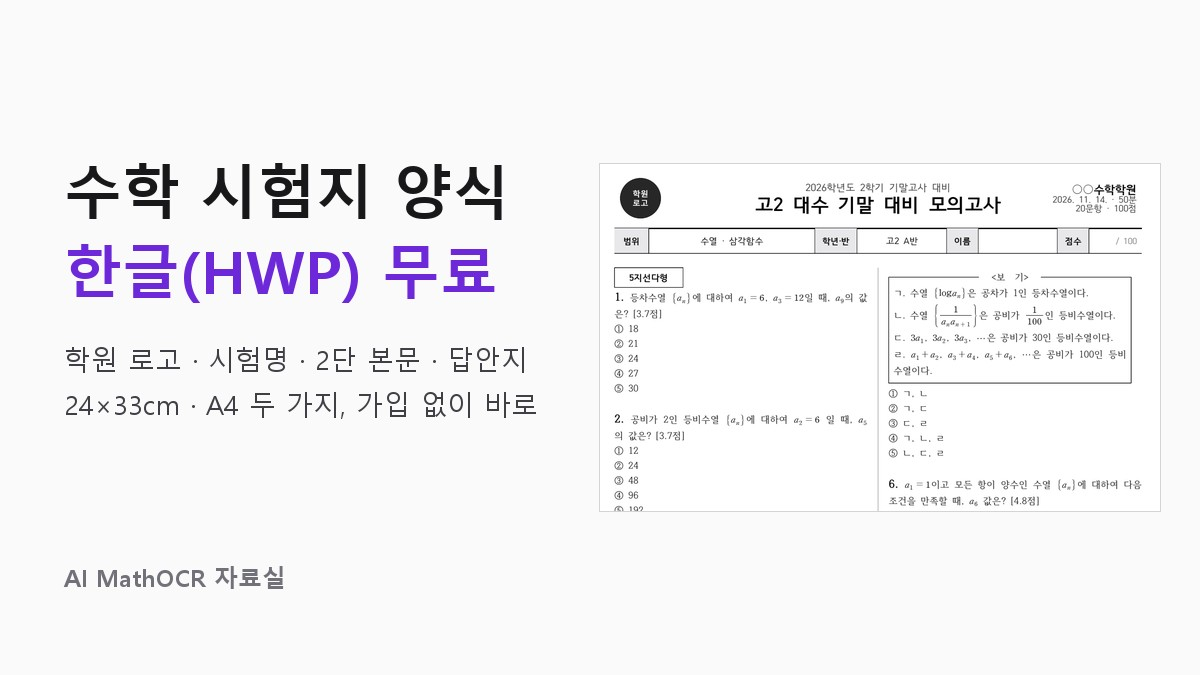
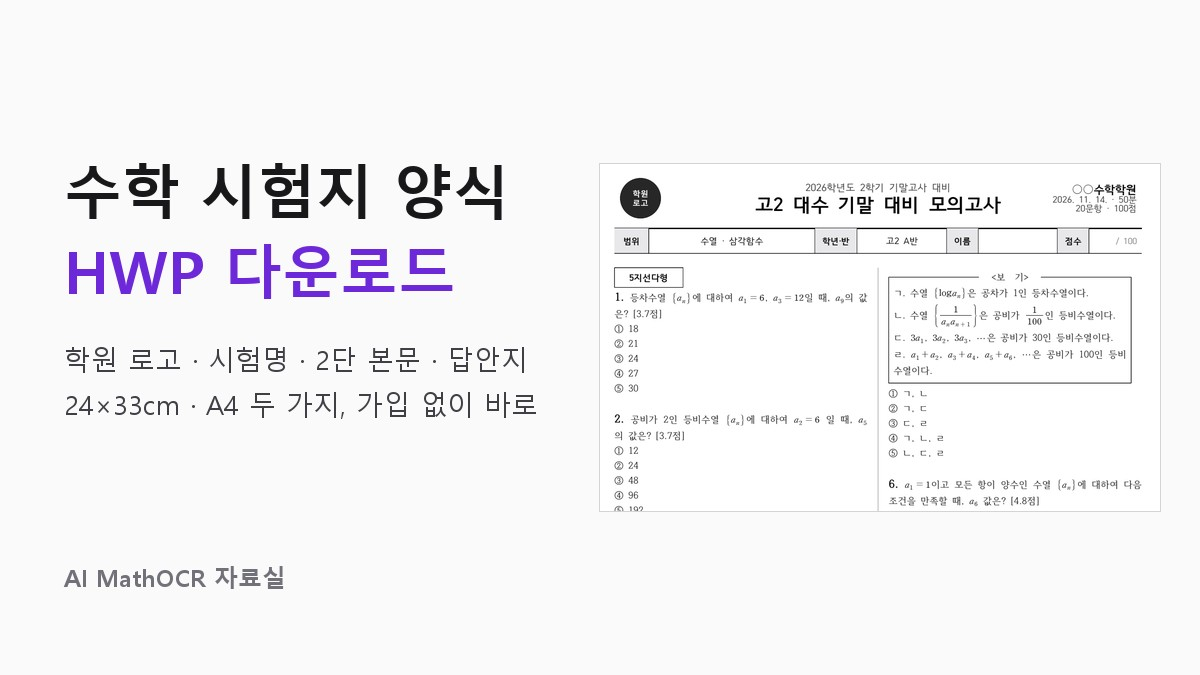
copy(guides): 시험지 양식 글 제목 '무료' → '다운로드'
양식은 당연히 무료라 제목의 '무료'가 어색하다는 사용자 의견(11-13). 검색량은 '시험지 양식 무료·다운로드·공유'
모두 월 10 미만이라 차이 없음 — 할 일(내려받기)을 말하는 '다운로드'로. 제목·목록·llms.txt·공유 미리보기 그림
('HWP 다운로드' — '한글(HWP) 다운로드'는 오른쪽 그림에 가려 줄임).

Changed region(s): [[0.0308, 0.3422, 0.4317, 0.4667]]

diff --git a/src/lib/articles.ts b/src/lib/articles.ts
@@ -31,7 +31,7 @@ export const ARTICLES: Article[] = [
     published: "2026-11-13",
     ogImage: "/articles/exam-paper-og.jpg",
     category: "exam",
-    title: "수학 시험지 양식(한글) 무료 — 학원 로고 넣는 2단 시험지·답안지",
+    title: "수학 시험지 양식(한글) 다운로드 — 학원 로고 넣는 2단 시험지·답안지",
     summary: "학원 로고·시험명 머리, 이름·점수 칸, 5지선다형·서답형 표지를 갖춘 한글 2단 시험지 양식(A4·24×33cm)과 답안지·정답표를 가입 없이 무료로. AI MathOCR로 옮긴 문제를 24×33cm판에 붙이면 줄 바꿈이 그대로입니다.",
     date: "2026-11-13",
     thumb: { img: "/articles/exam-paper-thumb.webp", alt: "2단 시험지 양식에 기출 문제를 채운 예시 — 학원 로고·시험명 머리와 가운데 구분선" },

diff --git a/src/app/help/exam-paper-template/page.tsx b/src/app/help/exam-paper-template/page.tsx
@@ -32,7 +32,7 @@ const HREF = "/help/exam-paper-template";
 const LOC = "exam_tpl";
 
 export const metadata: Metadata = {
-  title: "수학 시험지 양식(한글 HWP) 무료 — 학원 로고 넣는 2단 시험지·답안지",
+  title: "수학 시험지 양식(한글 HWP) 다운로드 — 학원 로고 넣는 2단 시험지·답안지",
   description:
     "학원 로고·시험명·학원명 머리, 이름·점수 칸, 5지선다형·서답형 표지, 2단 본문을 갖춘 한글 수학 시험지 양식(A4·24×33cm)과 답안지·정답표를 가입 없이 무료로 받으세요. AI MathOCR로 옮긴 문제를 24×33cm판에 붙이면 줄 바꿈이 그대로 들어가고, 한글에서 2단 시험지를 직접 만드는 순서도 정리했습니다.",
   alternates: { canonical: HREF },
